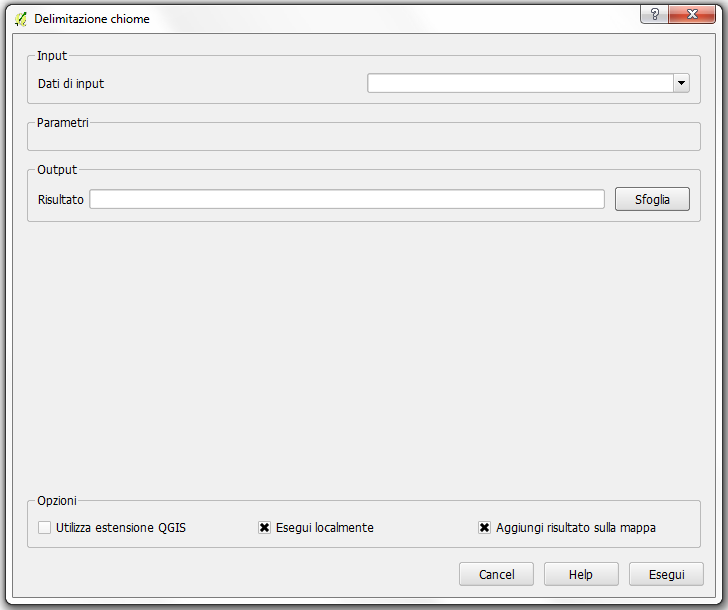
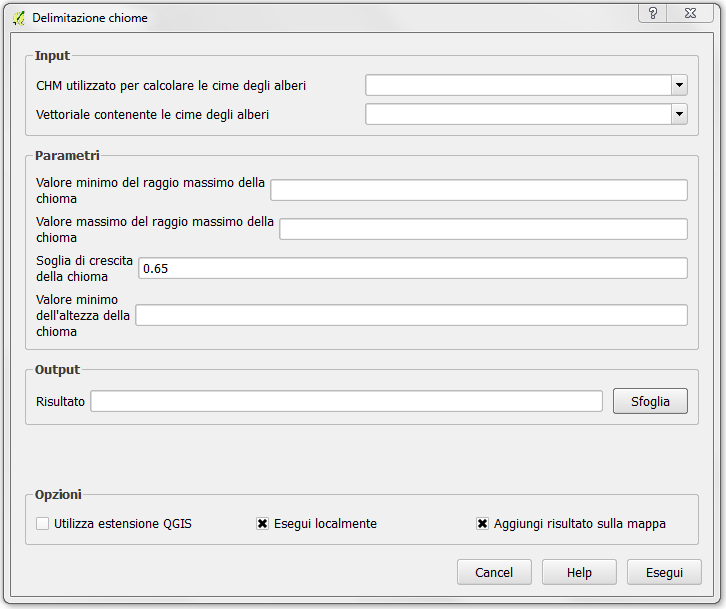
Help delimitazione chiome

Changed region(s): [[0.0, 0.0, 1.0, 1.0], [0.1818, 0.4368, 0.2424, 0.468], [0.4848, 0.1248, 0.5152, 0.156]]

diff --git a/docs/source/tools/delimitazione_chiome.rst b/docs/source/tools/delimitazione_chiome.rst
@@ -1,9 +1,9 @@
 Delimitazione chiome
 ================================
 
-Il modulo permette di delineare le chiome degli alberi a partire da un file .las del Canopy Height Model (ottenuto in uscita dal modulo "Estrazione CHM"). L'algoritmo esegue le seguenti operazioni: 1) viene creato un raster del CHM alla risoluzione impostata dall'utente; 2) il raster viene filtrato con un filtro di media usando una finestra mobile impostata dall'utente; 3) i massimi locali vengono identificati usando una finestra mobile impostata dall'utente; 4) partendo dai massimi locali le chiome vengono definite usando un metodo di tipo *decision tree*. Durante questa fase viene considerata la differenza di altezza tra il massimo locale considerato e i pixel adiacenti, e la loro distanza (la distanza massima è fissata dall'utente); 5) partendo dalle chiome delineate al punto 4 vengono estratti i punti LIDAR di ogni chioma e vengono sogliati usando il metodo di sogliatura Otsu; 6) ai punti LIDAR contenuti in ogni chioma con valore di altezza al di sopra della soglia Otsu (di valore diverso per ogni chioma) viene applicato un *convex hull* sul piano x,y; 7) le forme cosi' ottenute sono convertite in shapefile e date in output.
+Il modulo permette di delineare le chiome degli alberi a partire da un file raster del Canopy Height Model (ottenuto in uscita dal modulo *Rasterizzazione file LAS*) e dallo shapefile delle posizioni degli alberi ottenuto col modulo *Individuazione alberi*. L'algoritmo partendo dalle posizioni degli alberi delinea le chiome usando un metodo di tipo *decision tree*. Durante questa fase viene considerata la differenza di altezza tra il massimo locale considerato e i pixel adiacenti, e la loro distanza (la distanza massima è fissata dall'utente). Una volta delineate le chiome sul file raster viene applicato un *convex hull* sul piano x,y ad ogni chioma in modo da renderle più smussate. Le forme così ottenute sono convertite in shapefile e date in output.
 
-NB: l'algoritmo e' molto lento se il file di input è grande. I tempi di elaborazione sono di circa 5 minuti su file di dimensione 100x100 m.
+NB: l'algoritmo può essere lento se il file di input è grande.
 
 .. only:: latex
 
@@ -13,19 +13,20 @@ NB: l'algoritmo e' molto lento se il file di input è grande. I tempi di elabora
 Input
 ------------
 
-**File .las del CHM**: selezionare il file .las del CHM di partenza.
+**CHM utilizzato per calcolare le posizioni degli alberi**: selezionare il file raster del CHM usato per calcolare le posizioni degli alberi.
+
+**Vettoriale contenente le posizioni degli alberi**: selezionare il vettoriale con le posizioni degli alberi ottenuto in uscita dal modulo *Individuazione alberi*.
 
 Parametri
 ------------
 
-**Risoluzione del raster**: risoluzione del raster di partenza. Default: 0.5 m.
+**Valore minimo del raggio massimo della chioma**: valore minimo del raggio massimo della chioma in pixel.
 
-**Dimensione finestra mobile filtro di media**: dimensione della finestra mobile del fitro di media. Il valore deve essere dispari e maggiore o uguale a 3. Default: 3.
+**Valore massimo del raggio massimo della chioma**: valore massimo del raggio massimo della chioma in pixel. Deve essere maggiore o uguale a *Valore minimo del raggio massimo della chioma*.
 
-**Dimensione finestra mobile massimi locali**: dimensione della finestra mobile usata per identificare i massimi locali. Il valore deve essere dispari e maggiore o uguale a 3. Default: 5.
+**Soglia di crescita della chioma**: valore di soglia percentuale tra il valore di altezza dell'albero e i valori di altezza più bassi della chioma. Deve essere tra 0 e 1. Default: 0.65.
 
-**Distanza massima tra massimo locale e pixel**: distanza massima (in numero di pixels) tra il massimo locale e i pixel appartenerti alla sua chioma. Questo valore si può interpretare come il raggio massimo delle chiome delineate. Default: 20.
-
+**Valore minimo dell'altezza della chioma**: soglia minima di altezza per i pixel appartenenti alla chioma (es. 2 m).
 
 Output
 ------------
